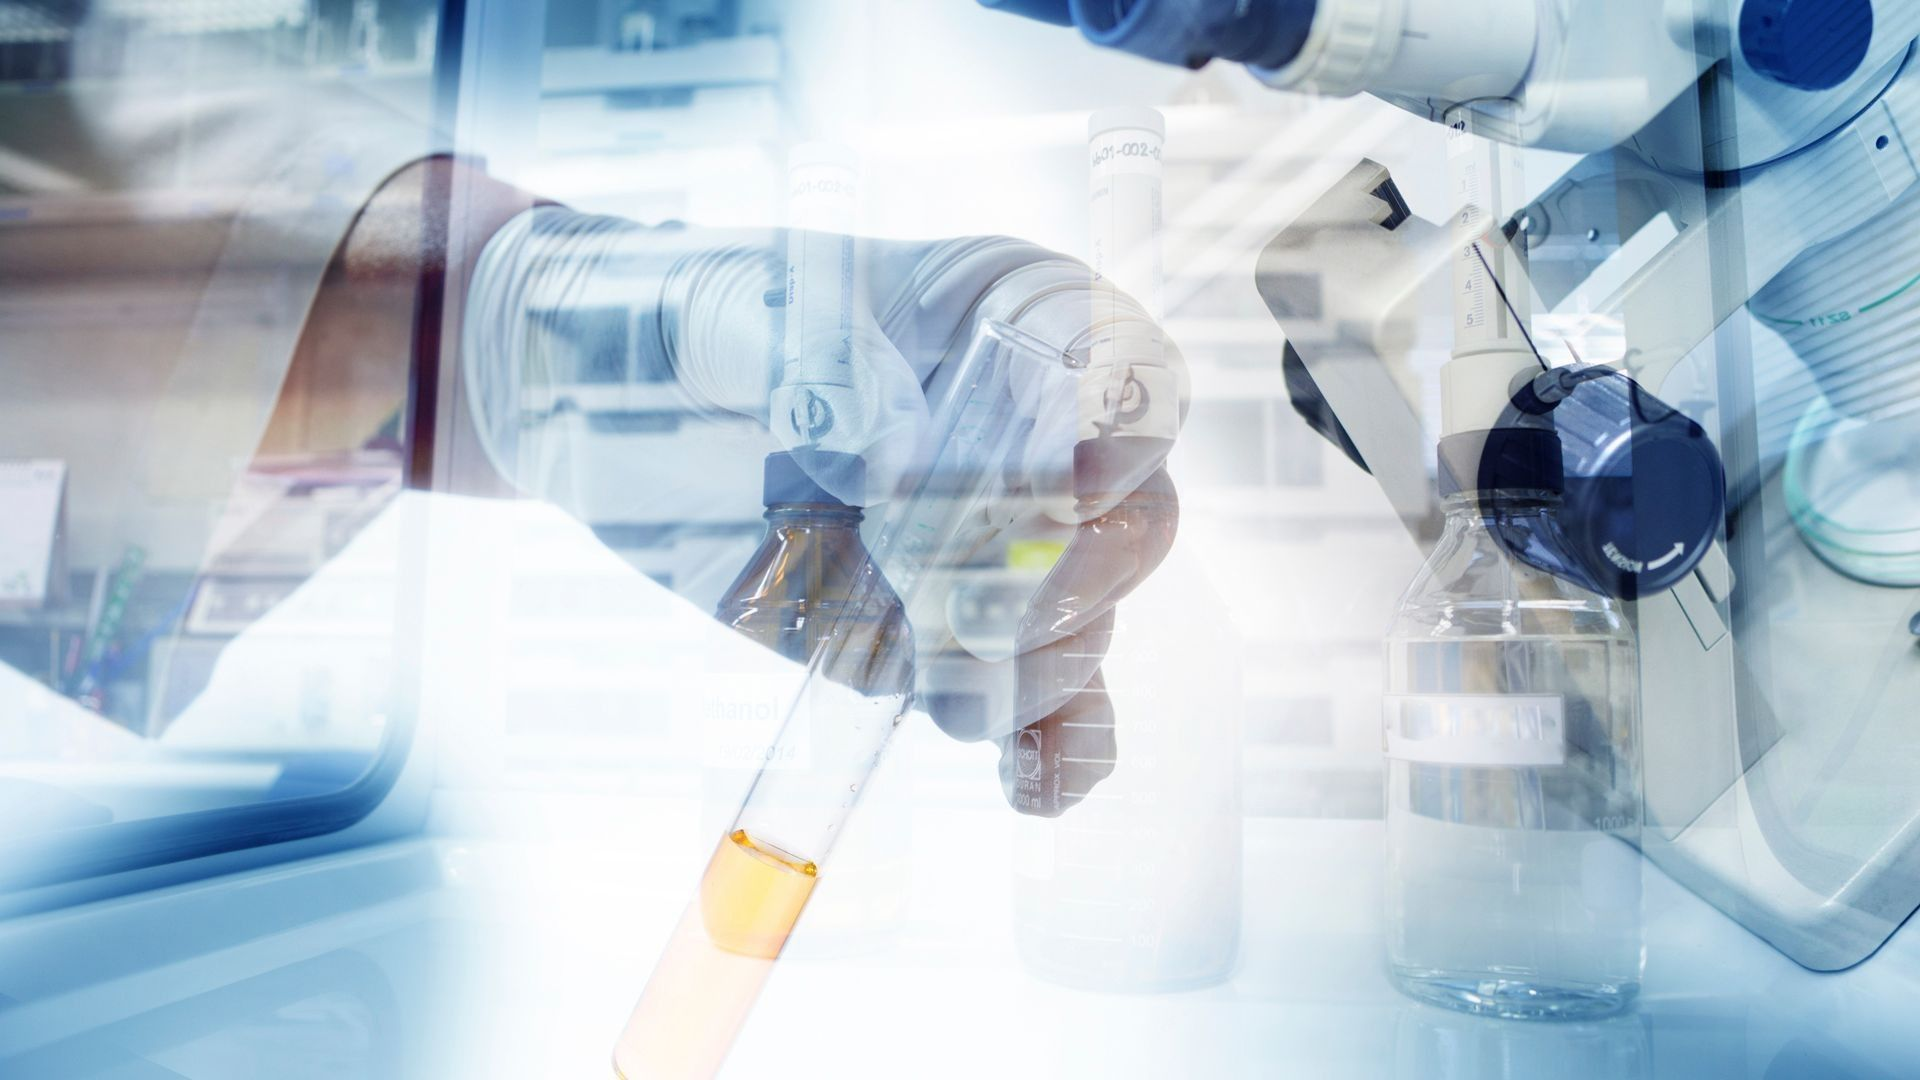
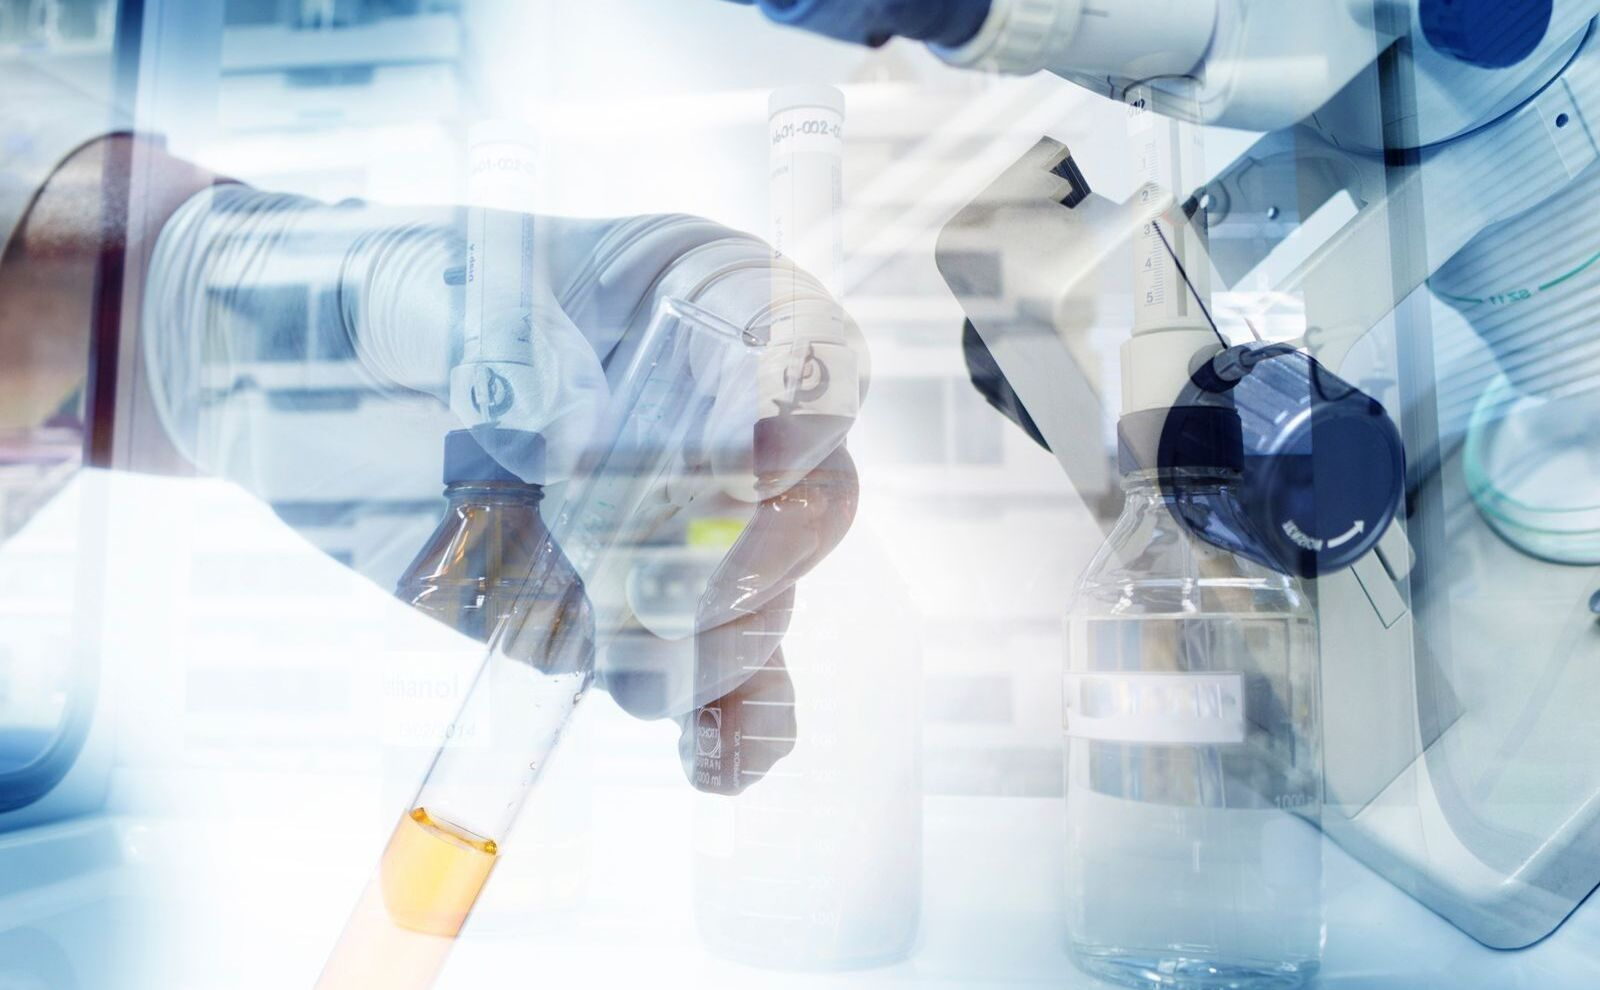
Ajustes imágenes Carrusel

diff --git a/index.html b/index.html
@@ -28,13 +28,12 @@
         </nav>
     </header>
     
-    <article class="main">
-    <section>
-        <div class="slider container">
+    
+    <section class="main">
+        <div class="slider-container">
             <div class="slider-position"></div>
         </div>
-    </section>    
-    <section>
+    
         <br>
         <div class="logo-main">
             <img class="logo" src="img/Logo1.jpg" alt="Logo">
@@ -70,7 +69,7 @@
             <br><br><br><br><br>
         </div>
     </section>   
-    </article>
+    
 
     <div class="footer">
         <div class="social">

diff --git a/estilos.css b/estilos.css
@@ -166,14 +166,14 @@ nav a:hover{
 
 .slider-position{
   position: absolute;
-  top: 100%;
-  left: 100%;
-  transform: translate(-100%, -100%);
+  top: 50%;
+  left: 65%;
+  transform: translate(-50%, -50%);
 }
-.slider{
+.slider-container{
   background-image: url(img/50520-laboratorio-clinico.jpg);
   background-size: cover;
-  height: 100%;
+  height: 50%;
   width: 100%;
   animation: animate 35s infinite;
 }
